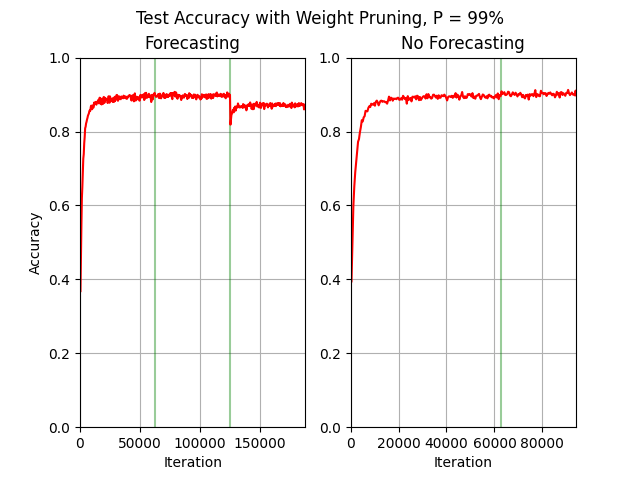
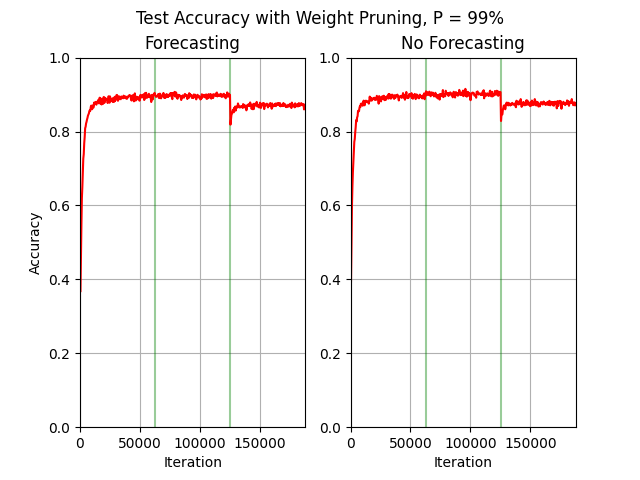
99

Changed region(s): [[0.5312, 0.1875, 0.9062, 0.4688], [0.5938, 0.9062, 0.875, 0.9375]]

diff --git a/Graphing.py b/Graphing.py
@@ -21,7 +21,7 @@ ax1.set_ylim(0, 1)
 ax2.plot(training_iterations, accuracy_2, "r-")
 ax2.set_title("No Forecasting")
 ax2.set_xlabel("Iteration")
-ax2.set_xlim(0, 94000)
+ax2.set_xlim(0, 188071)
 ax2.set_ylim(0, 1)
 ax1.grid(True)
 ax2.grid(True)
